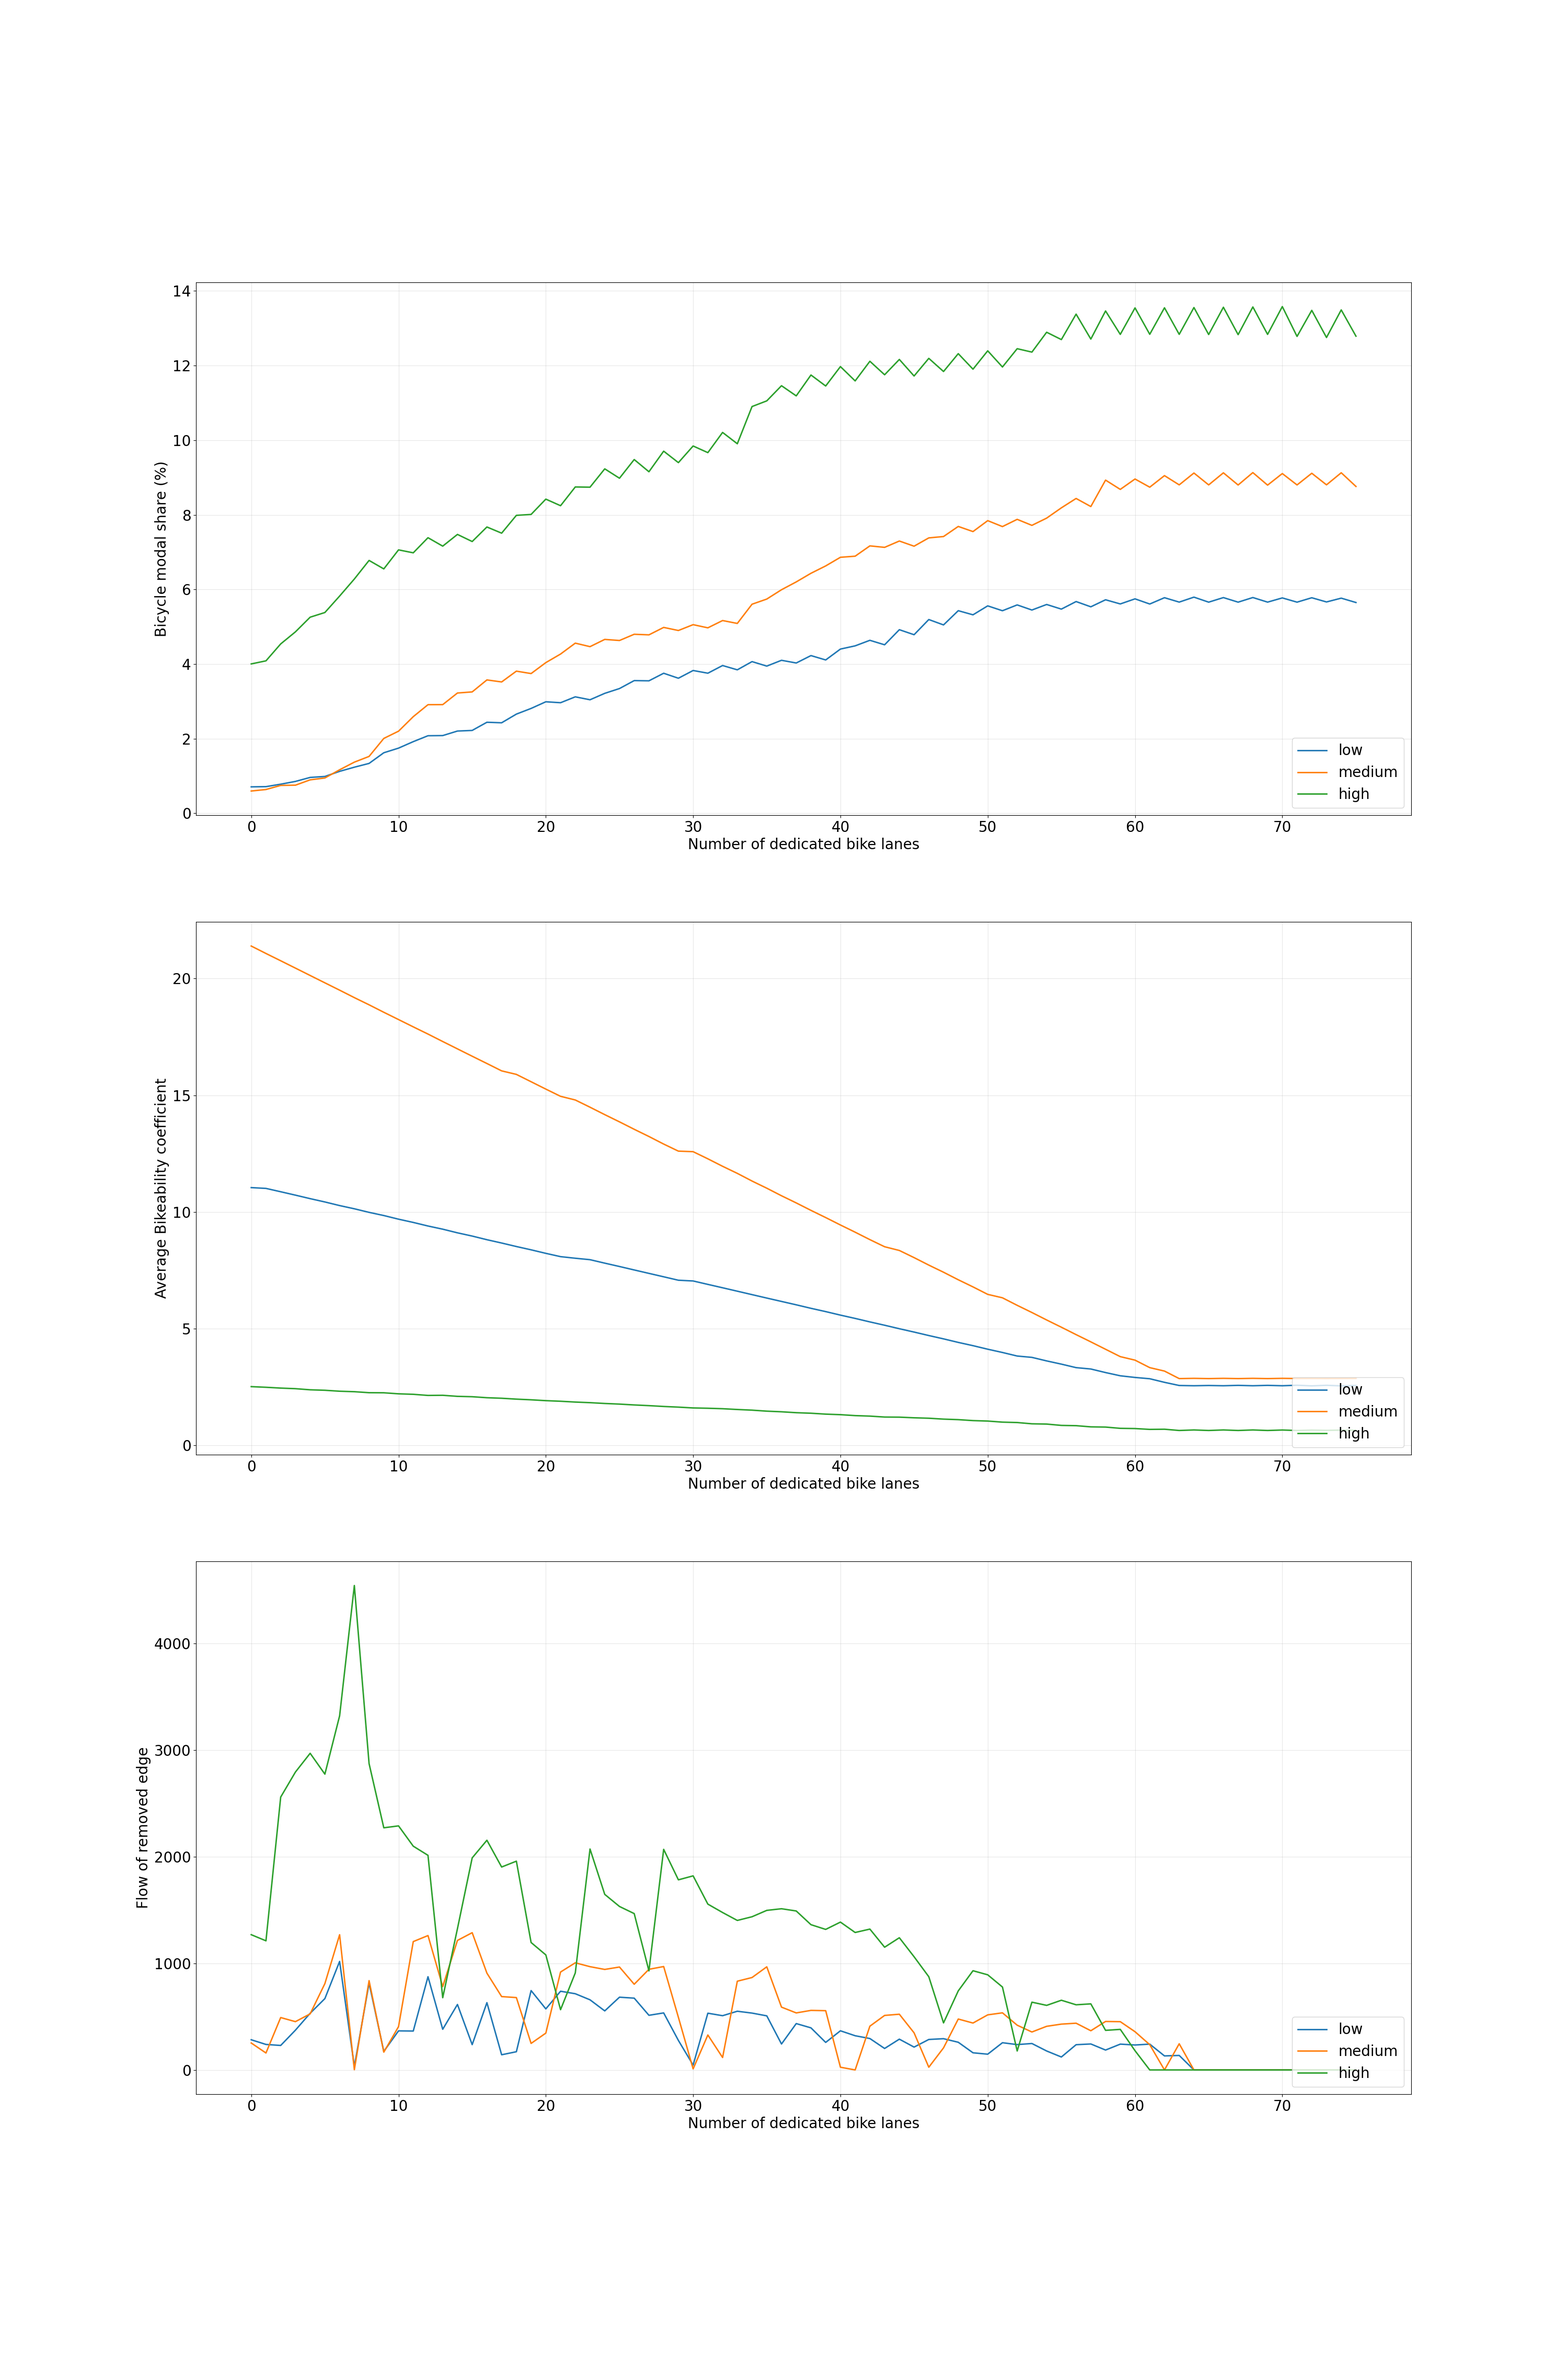
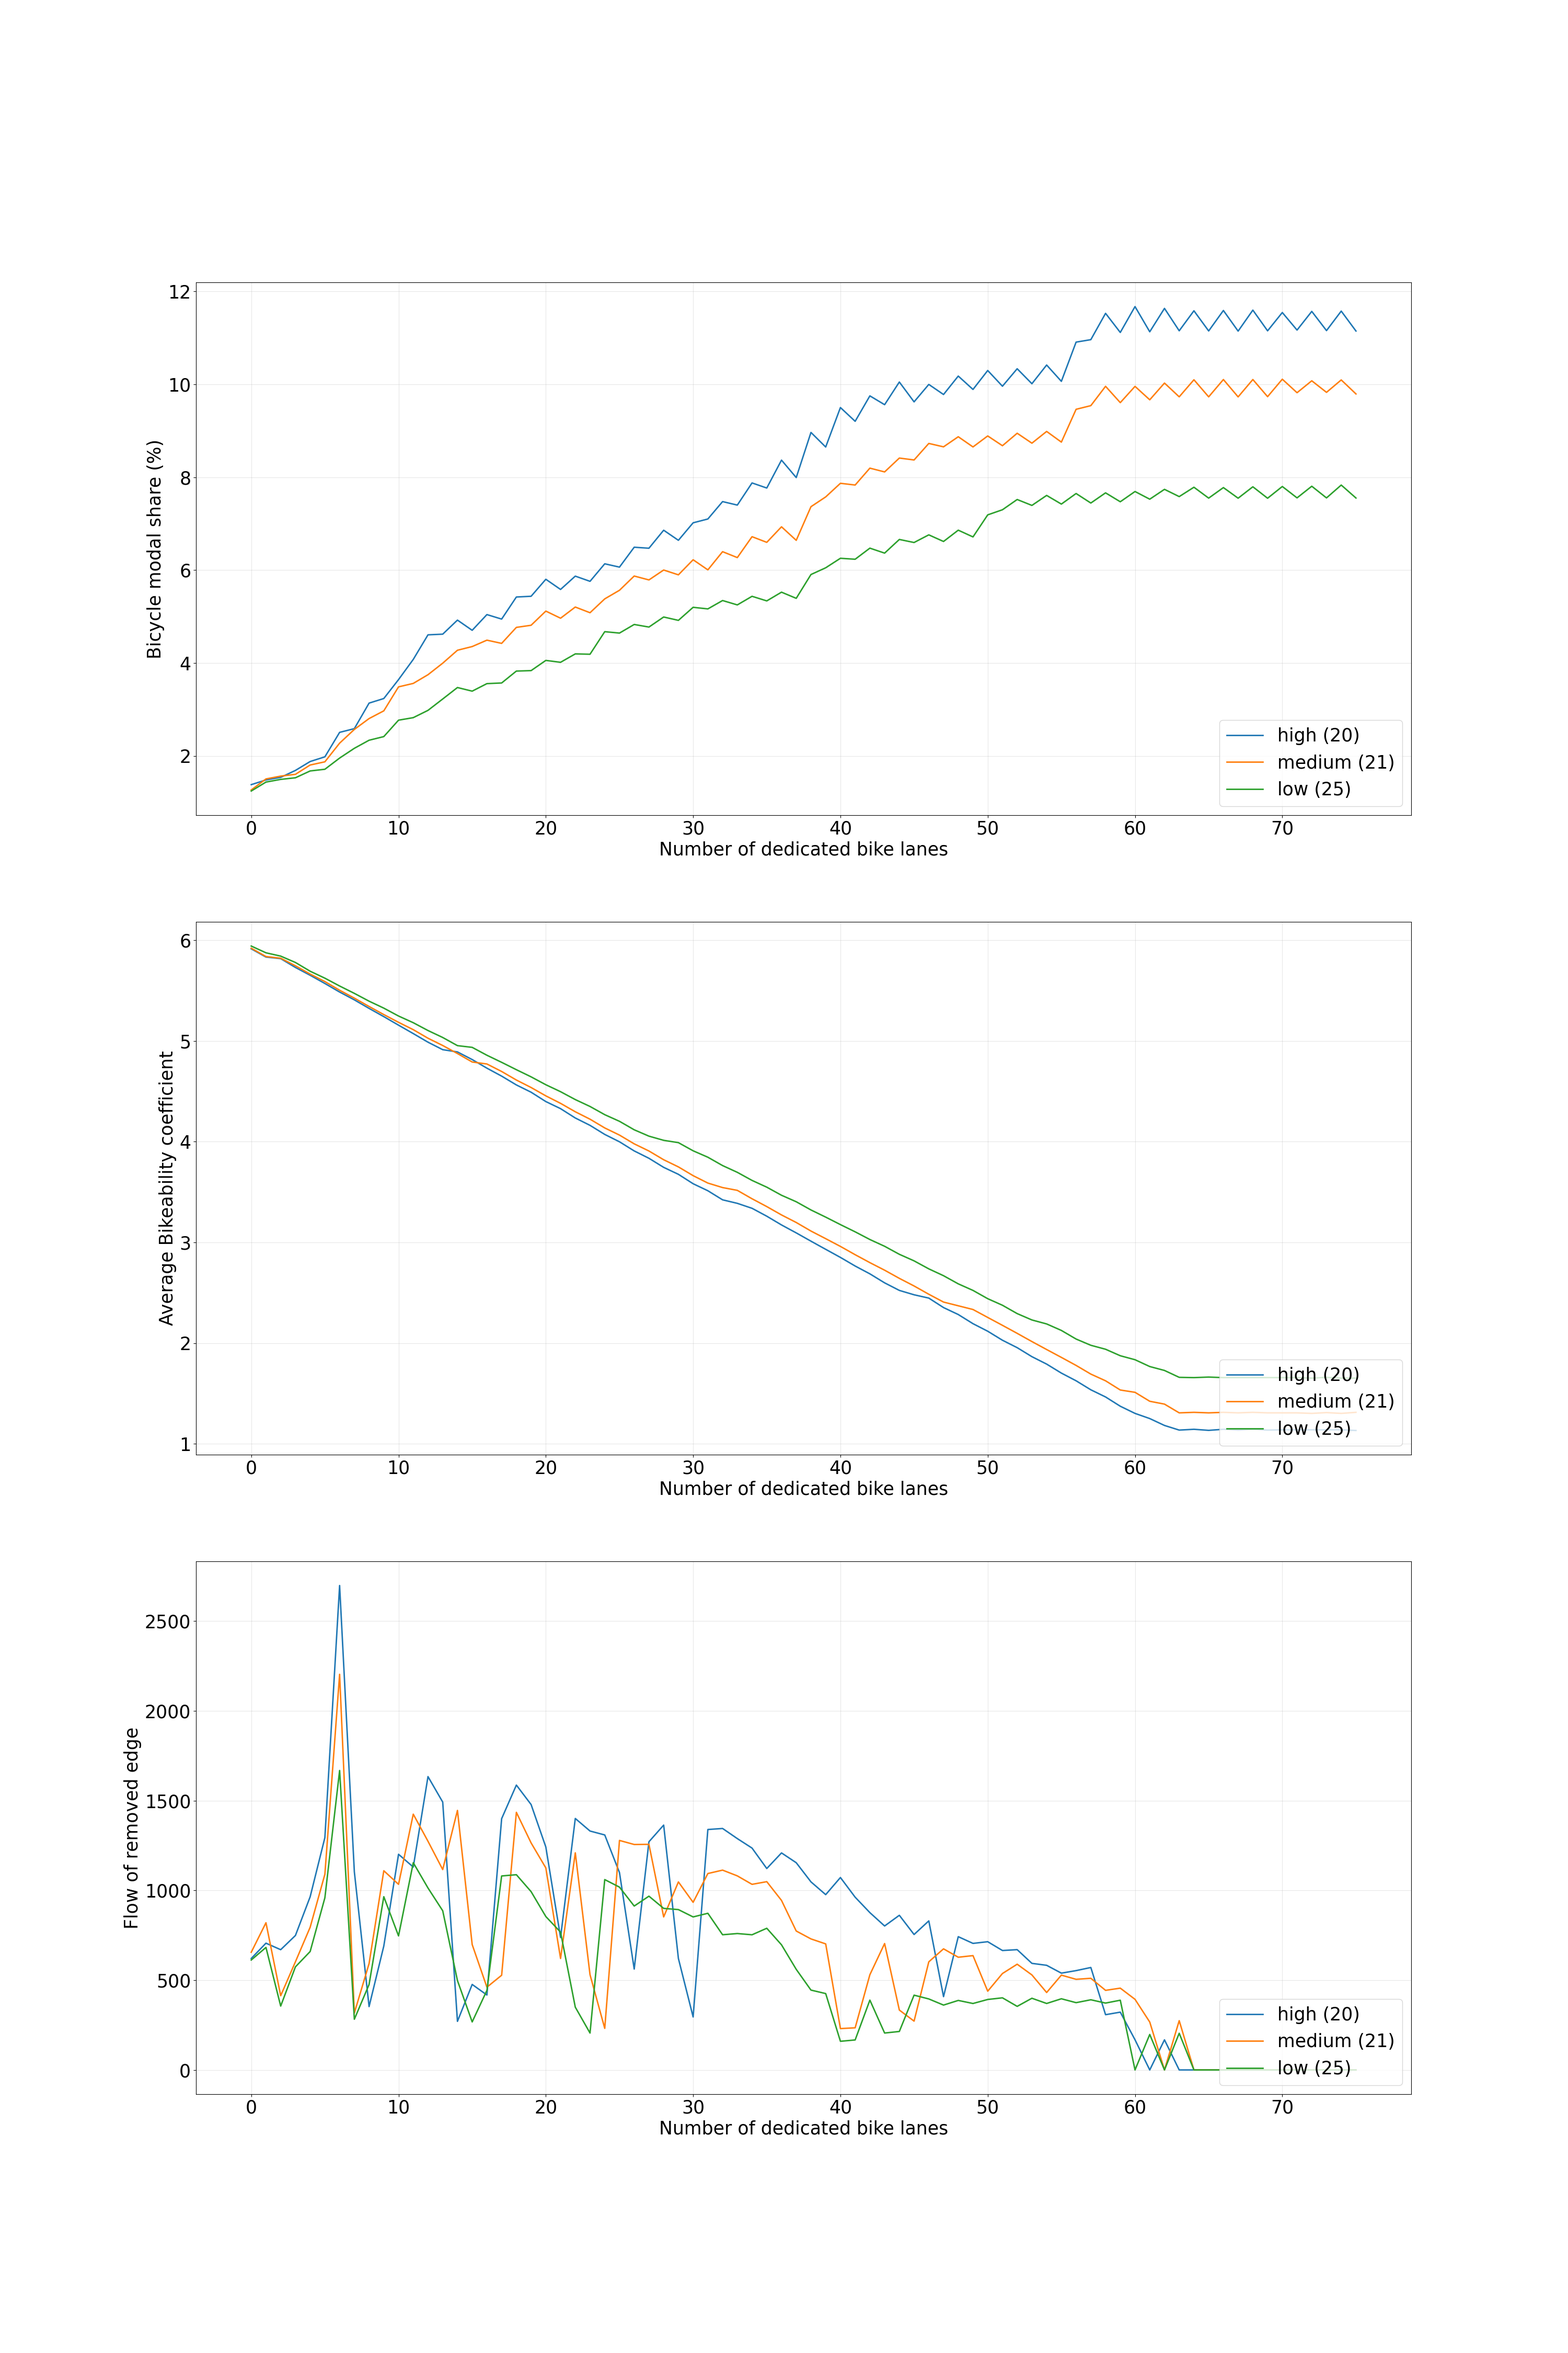
new plots for heart poster

diff --git a/plot_optimization.py b/plot_optimization.py
@@ -492,11 +492,12 @@ import matplotlib.lines as mlines
 #     edge_df_results = pd.read_csv(filename_edge)
 #     plot_optimization_results(name_test, edge_df, node_df, save = True, file_path = f"output/optimization/test_parametres/{horodatage}/images/", edge_df_results = edge_df_results, results_df_opt = results_df_opt)
 
-plt.rcParams.update({'font.size': 20})
+fontsize = 25
+plt.rcParams.update({'font.size': fontsize})
 ASC_bike = -2
 beta_time = -0.001
-list_coef_map_num = [9,11,16]
-list_name_bi=['low','medium','high']
+list_coef_map_num = [20,21,25]
+list_name_bi=[f'high ({list_coef_map_num[0]})',f'medium ({list_coef_map_num[1]})',f'low ({list_coef_map_num[2]})']
 
 city_name = "Sioux_Falls"
 horodatage = "2026-08-27_14-16-45"
@@ -527,15 +528,7 @@ for coef_map_num, name_bi in zip(list_coef_map_num, list_name_bi):
 
 plt.savefig(f"output/_hEART_poster/bi_scenarios_comparaison_selected_with_flow.png")
 
-plt.rcParams.update({'font.size': 20})
-ASC_bike = -2
-beta_time = -0.001
-list_coef_map_num = [9,11,16]
-list_name_bi=['low','medium','high']
-
-city_name = "Sioux_Falls"
-horodatage = "2026-08-27_14-16-45"
-os.makedirs(f"output/optimization/test_parametres/{horodatage}/images", exist_ok=True)
+list_name_bi = ['high', 'medium', 'low']
 fig, ax = plt.subplots(1, 1, figsize=(25, 10))
 
 for coef_map_num, name_bi in zip(list_coef_map_num, list_name_bi):
@@ -553,52 +546,57 @@ ax.grid(True, alpha=0.3)
 x_max = ax.get_xlim()[1]
 y_min = ax.get_ylim()[0]
 y_max = ax.get_ylim()[1]
+zone1 = 40
+zone2 = 55
 
-# Zone 1 : 0 à 35
-ax.axvspan(0, 35, color="black", hatch = ".", alpha=0.05)
+
+# Zone 1
+ax.axvspan(0, zone1, color="black", hatch = ".", alpha=0.05)
 ax.text(
-    17.5,
+    zone1/2,
     0.05,
     "rapid growth phase",
     transform=ax.get_xaxis_transform(),
     ha="center",
     va="top",
-    fontsize=15,
+    fontsize=fontsize-2,
     fontweight="bold",
 
 )
 
-# Zone 2 : 35 à 52
-ax.axvspan(35, 52, color="black", hatch = "/", alpha=0.05)
+# Zone 2
+ax.axvspan(zone1, zone2, color="black", hatch = "/", alpha=0.05)
 ax.text(
-    43.5,
+    (zone1+zone2)/2,
     0.05,
     "first threshold",
     transform=ax.get_xaxis_transform(),
     ha="center",
     va="top",
-    fontsize=15,
-    fontweight="bold",
-)
-ax.axvline(x=35, color="black", linestyle="--", linewidth=1.5, alpha=0.7)
-ax.axvline(x=52, color="black", linestyle="--", linewidth=1.5, alpha=0.7)
+    fontsize=fontsize-2,
+    fontweight="bold")
 
 
-# Zone 3 : 52 à la fin
-ax.axvspan(52, x_max, color="black", hatch = '\\', alpha=0.05)
+
+
+# Zone 3
+ax.axvspan(zone2, x_max, color="black", hatch = '\\', alpha=0.05)
 ax.text(
-    (52 + x_max) / 2,
+    (zone2 + x_max) / 2,
     0.05,
     "second threshold",
     transform=ax.get_xaxis_transform(),
     ha="center",
     va="top",
-    fontsize=15,
+    fontsize=fontsize-2,
     fontweight="bold",
 )
 
 ax.set_xlim(0, x_max)
-ax.legend(loc="upper left")
+ax.legend(loc="upper left", title="Bikeability sensitivity", fontsize=fontsize-3)
+
+ax.axvline(x=zone1, color="black", linestyle="--", linewidth=1.5, alpha=0.7)
+ax.axvline(x=zone2, color="black", linestyle="--", linewidth=1.5, alpha=0.7)
 
 plt.savefig("output/_hEART_poster/graph_results.png")
 
